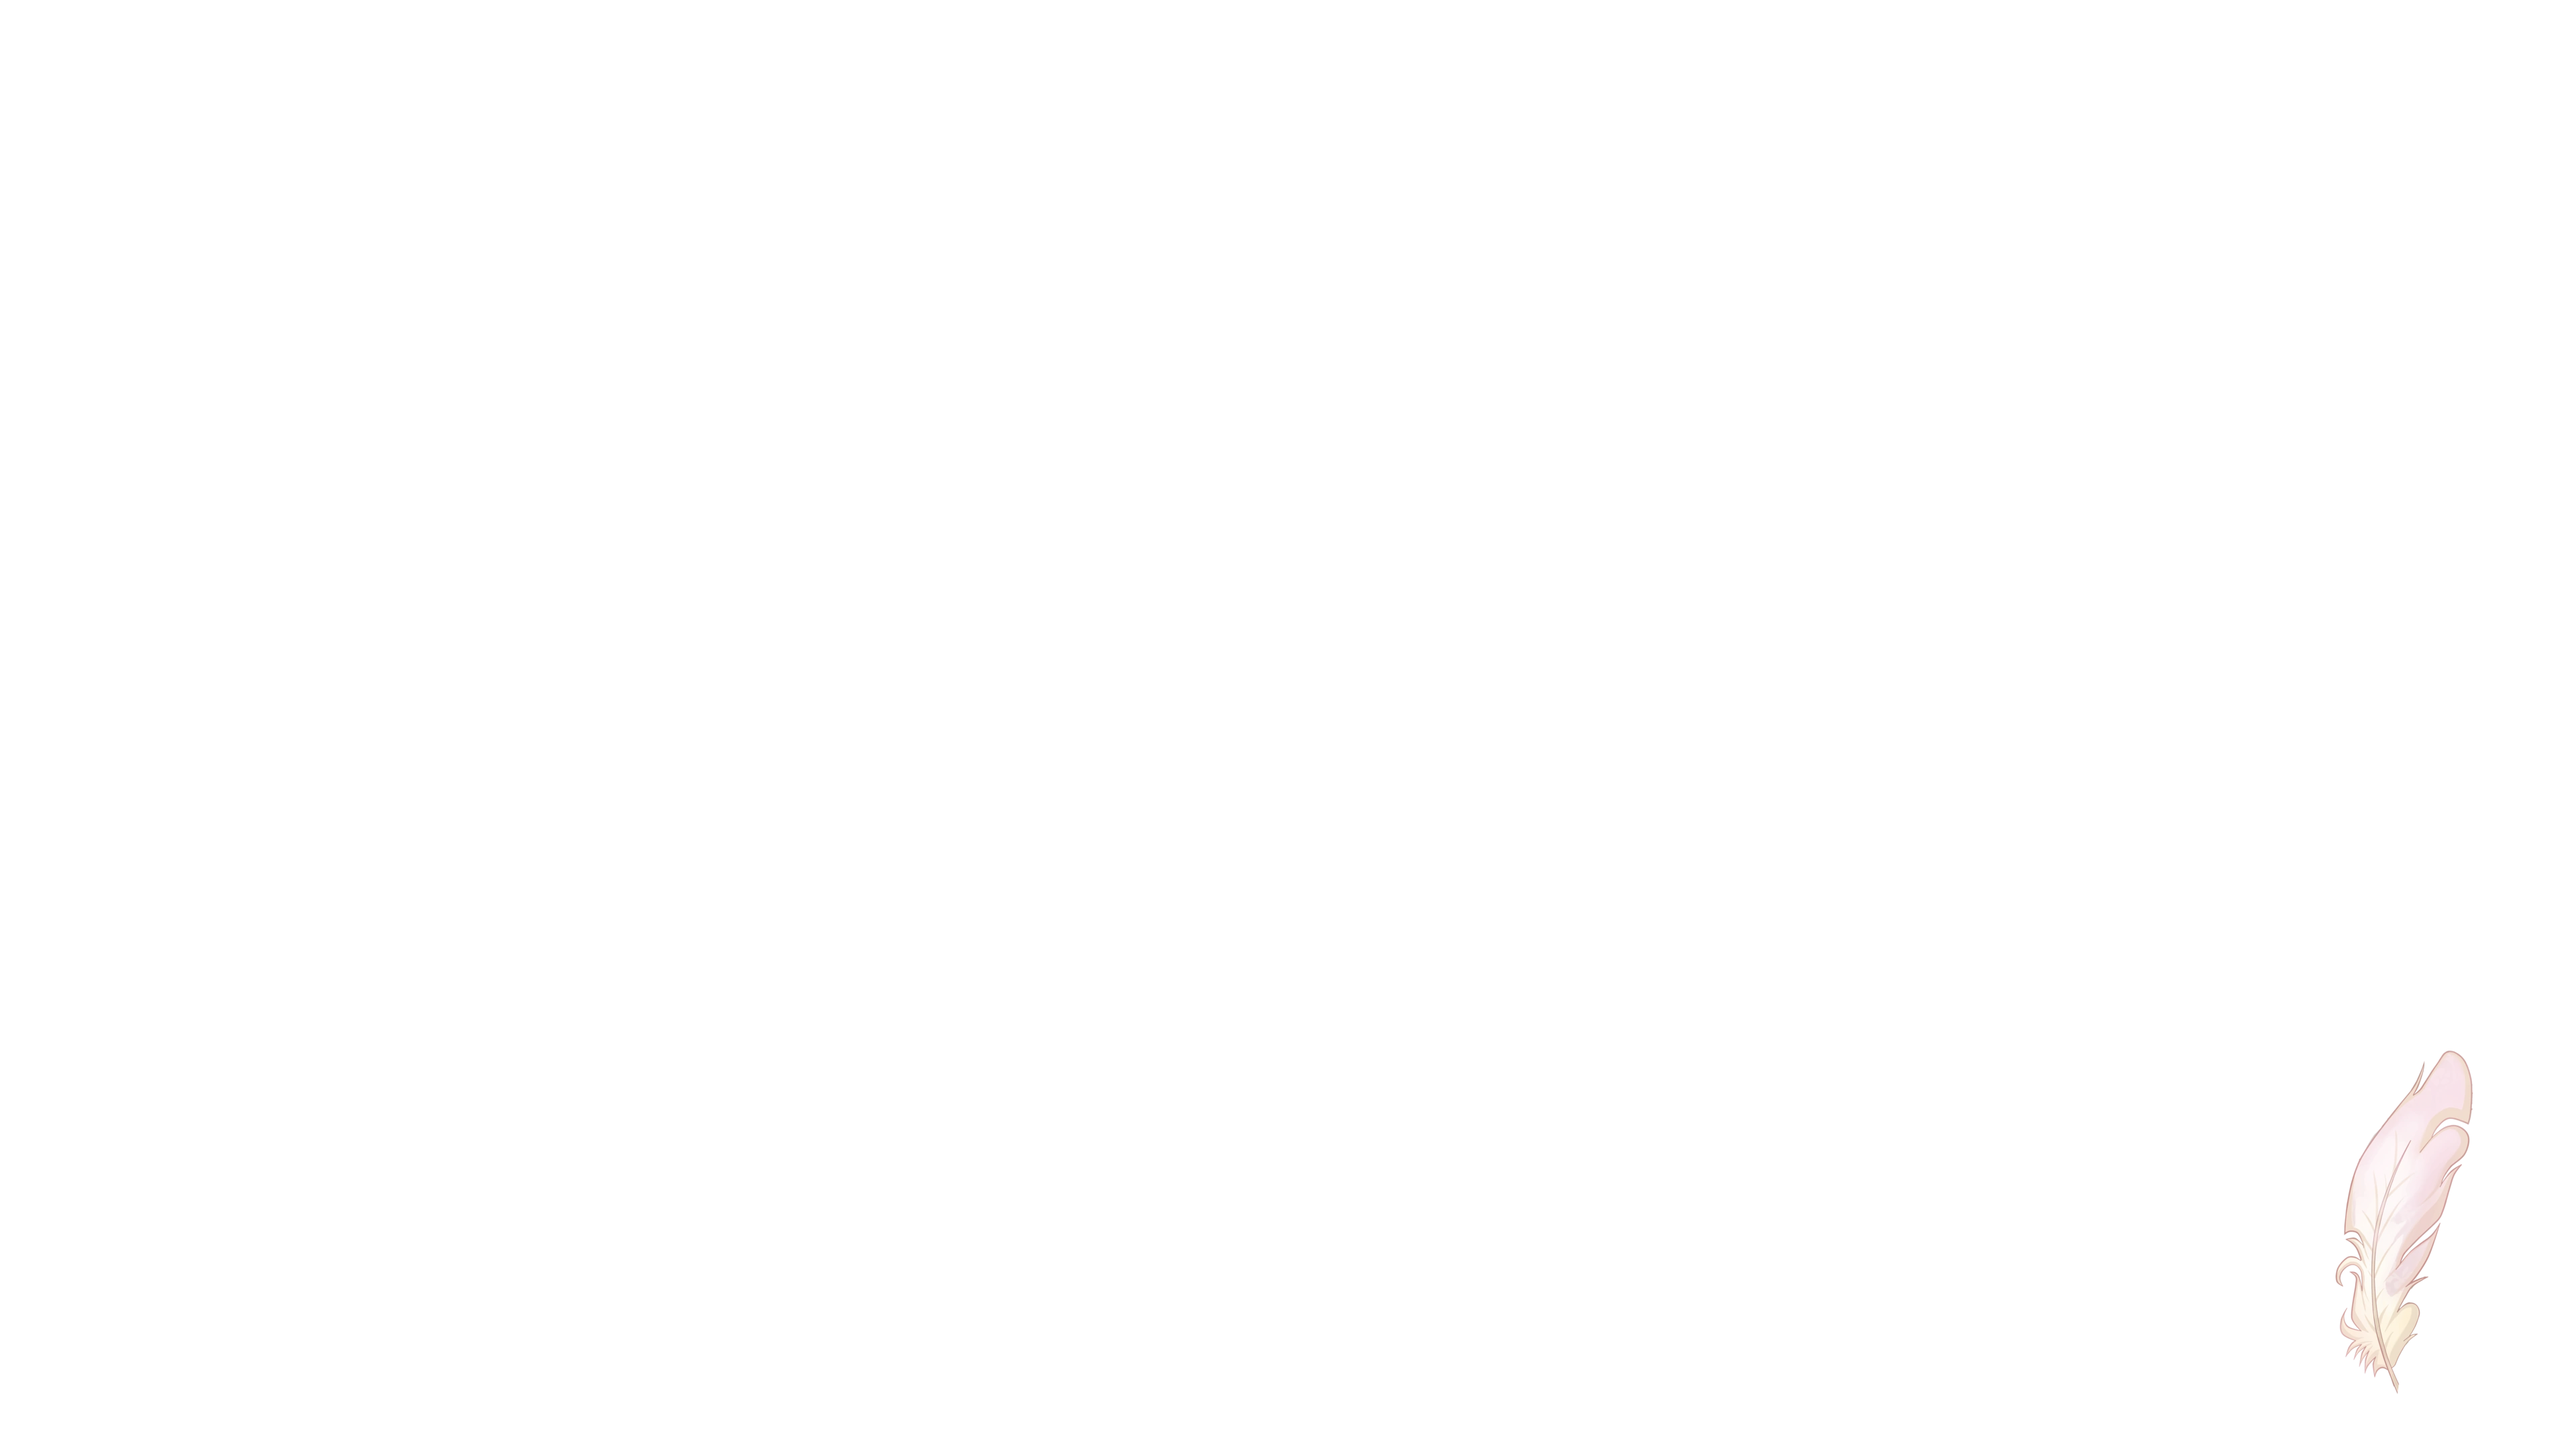
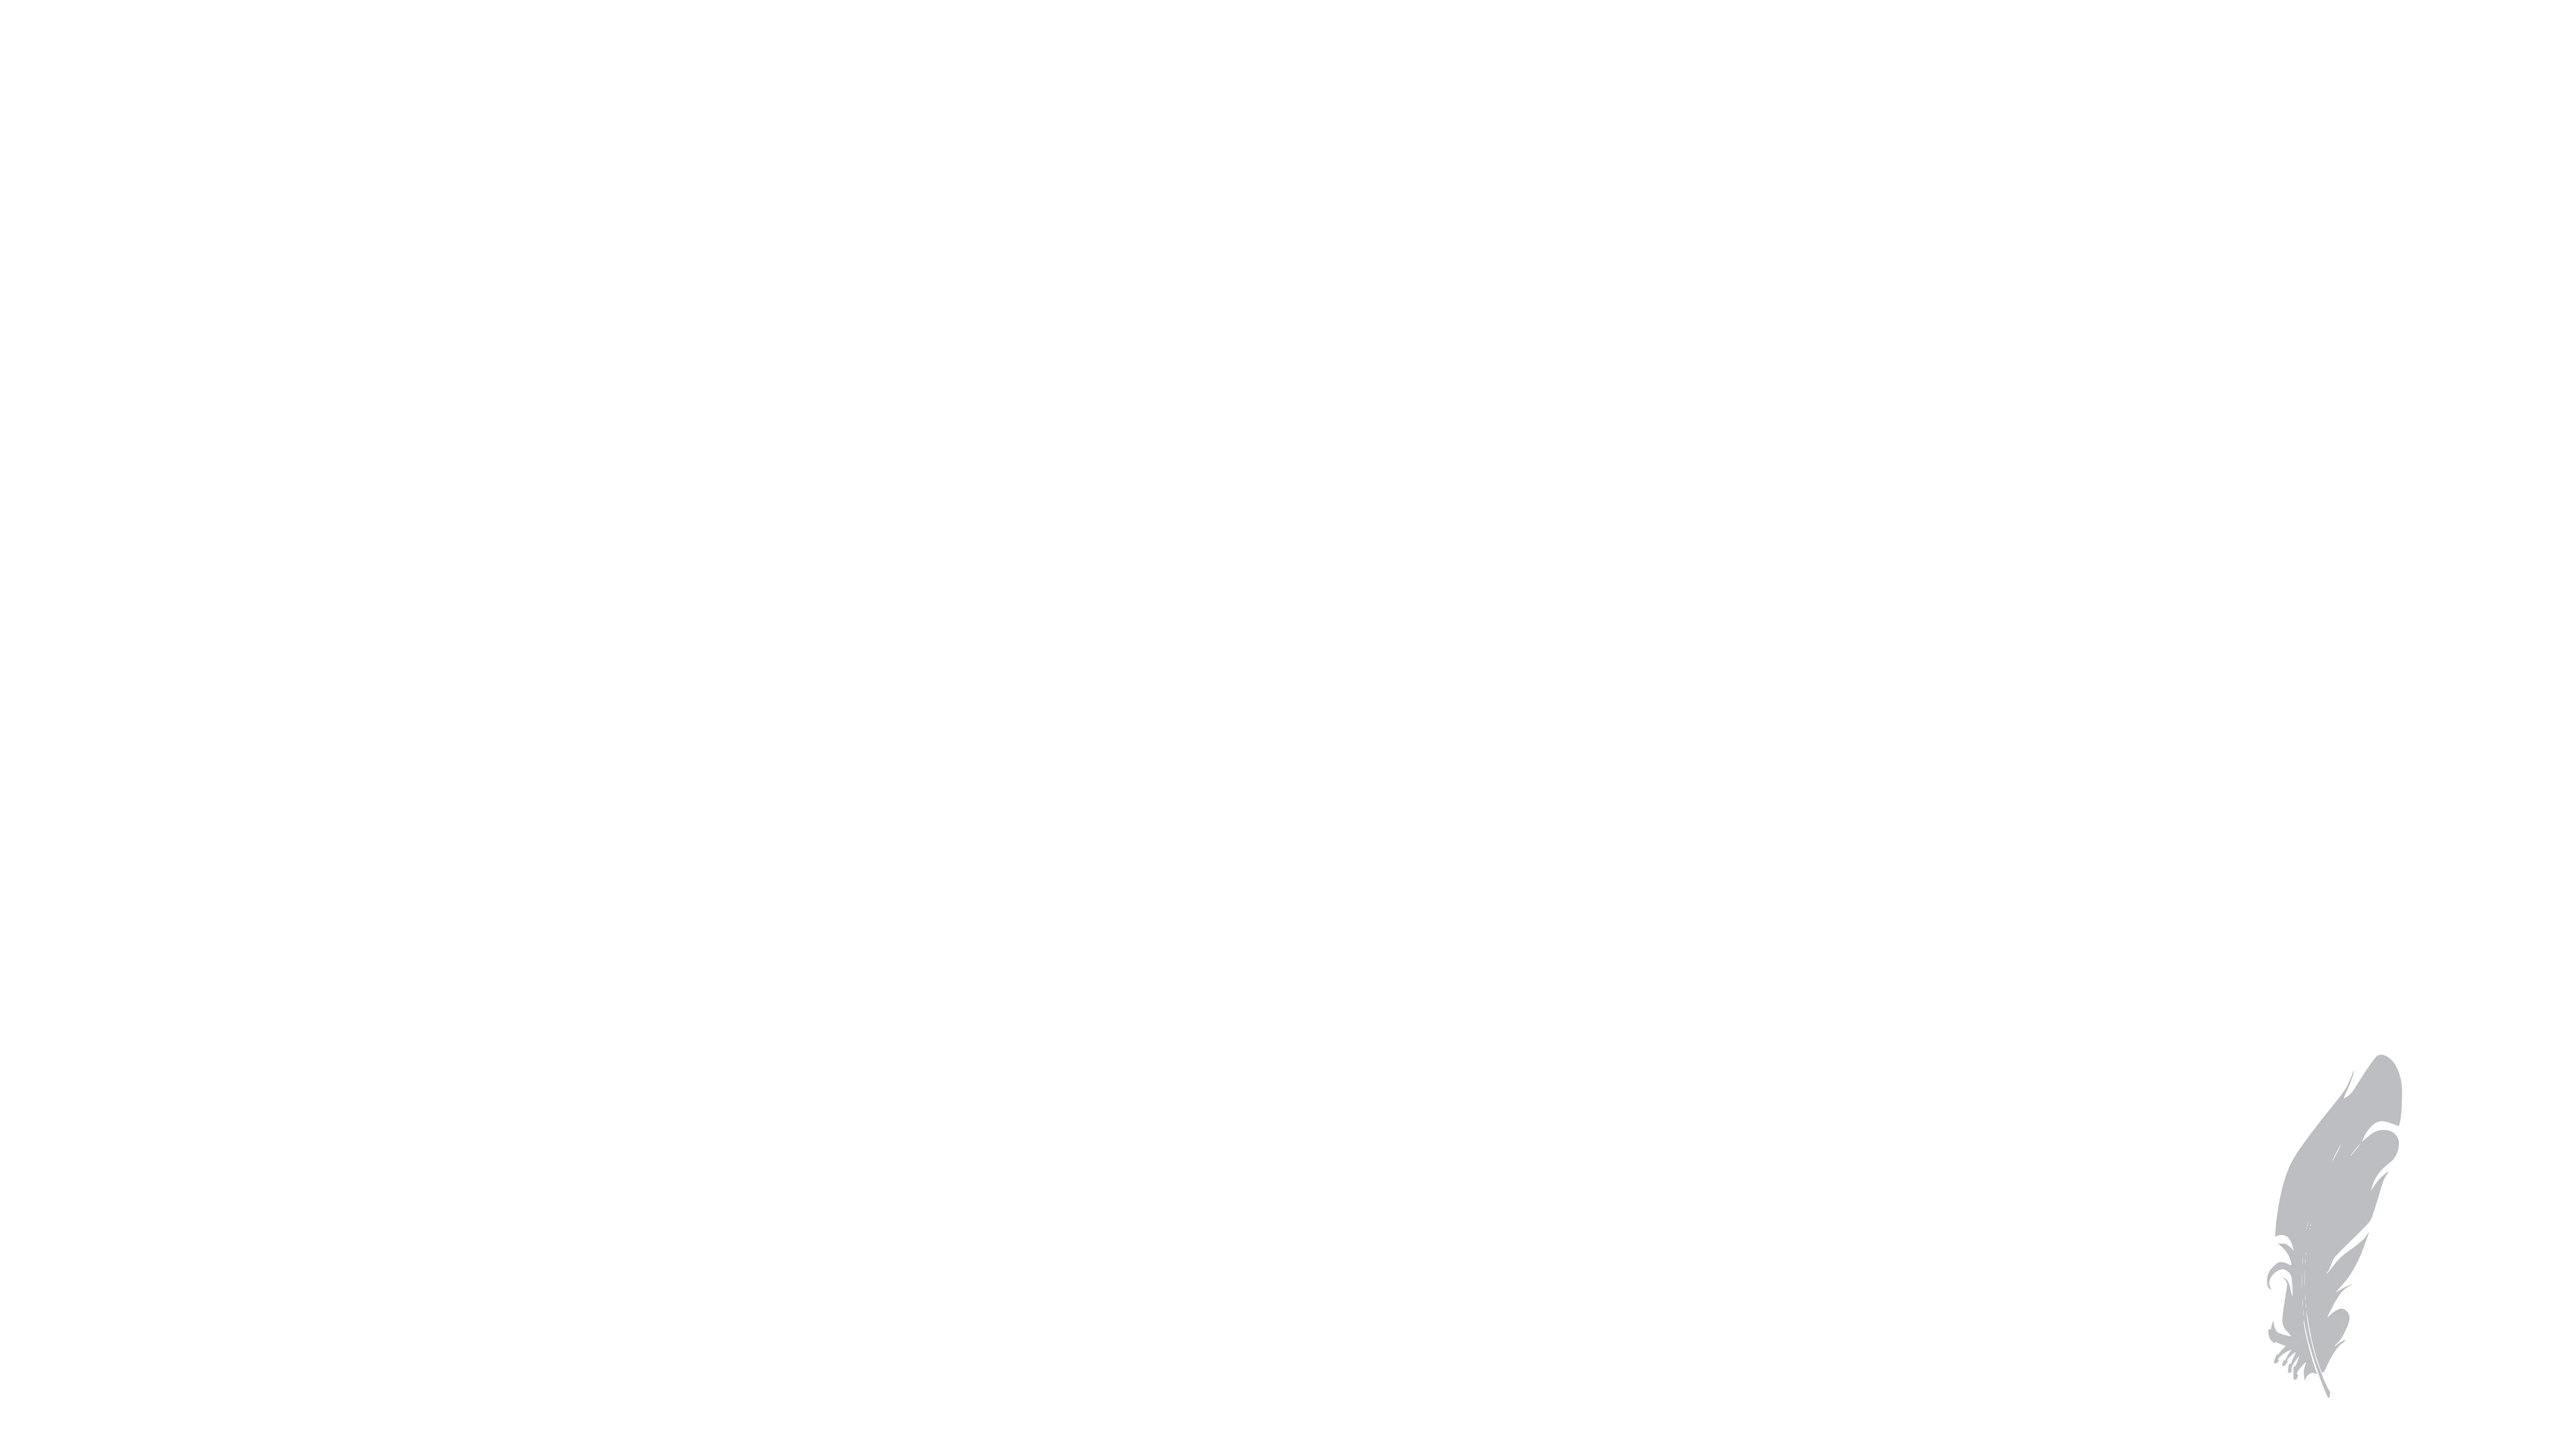
Update jinya releases to new theme

Changed region(s): [[0.875, 0.7134, 0.9688, 0.9616]]

diff --git a/static/jinya.css b/static/jinya.css
@@ -1,40 +1,42 @@
 [data-theme="light"],
 :root:not([data-theme="dark"]) {
-    --primary: #514b57;
-    --primary-hover: #38333c;
-    --primary-focus: rgba(81, 75, 87, 0.125);
+    --primary: #19324c;
+    --primary-hover: #14273C;
+    --primary-focus: rgba(20, 39, 60, 0.25);
     --primary-inverse: #FFF;
 
-    --secondary: #9d96a5;
-    --secondary-hover: #908899;
-    --secondary-focus: rgba(157, 150, 165, 0.25);
+    --secondary: #929292;
+    --secondary-hover: #7f7f7f;
+    --secondary-focus: rgba(127, 127, 127, 0.25);
     --secondary-inverse: #FFF;
 }
 
 @media only screen and (prefers-color-scheme: dark) {
     :root:not([data-theme]) {
-        --primary: #966554;
-        --primary-hover: #754f42;
-        --primary-focus: rgba(150, 101, 84, 0.25);
+        --primary: #0f1e2e;
+        --primary-hover: #0C1824;
+        --primary-focus: rgba(12, 24, 36, 0.25);
         --primary-inverse: #FFF;
 
-        --secondary: #9d96a5;
-        --secondary-hover: #908899;
-        --secondary-focus: rgba(157, 150, 165, 0.25);
+        --secondary: #929292;
+        --secondary-hover: #7f7f7f;
+        --secondary-focus: rgba(127, 127, 127, 0.25);
         --secondary-inverse: #FFF;
+
+        --card-background-color: #070d14;
     }
 }
 
 [data-theme="dark"] {
-    --primary: #966554;
-    --primary-hover: #754f42;
-    --primary-focus: rgba(150, 101, 84, 0.25);
+    --primary: #0f1e2e;
+    --primary-hover: #0C1824;
+    --primary-focus: rgba(12, 24, 36, 0.25);
     --primary-inverse: #FFF;
 
-    --secondary: #9d96a5;
-    --secondary-hover: #908899;
-    --secondary-focus: rgba(157, 150, 165, 0.25);
-    --secondary-inverse: #FFF;
+    --secondary: #929292;
+    --secondary-hover: #7f7f7f;
+    --secondary-focus: rgba(127, 127, 127, 0.25);
+    --secondary-inverse: #000;
 }
 
 html {
@@ -42,4 +44,14 @@ html {
     background-size: 100% 100%;
     background-attachment: fixed;
     height: 100vh;
+}
+
+@media screen and (prefers-color-scheme: dark) {
+    html {
+        background-image: url("background-dark.webp");
+    }
+
+    a {
+        color: #bbc6ce;
+    }
 }

diff --git a/templates/homepage.html b/templates/homepage.html
@@ -8,16 +8,15 @@
     <title>Jinya Releases</title>
     <link rel="stylesheet" type="text/css" href="/static/pico.css">
     <link rel="stylesheet" type="text/css" href="/static/jinya.css">
-    <link href="/static/apple-touch-icon.png" rel="apple-touch-icon" sizes="180x180">
-    <link href="/static/favicon-512x512.png" rel="icon" sizes="512x512" type="image/png">
-    <link href="/static/favicon-192x192.png" rel="icon" sizes="192x192" type="image/png">
-    <link href="/static/favicon-32x32.png" rel="icon" sizes="32x32" type="image/png">
-    <link href="/static/favicon-16x16.png" rel="icon" sizes="16x16" type="image/png">
-    <link href="/static/favicon.ico" rel="shortcut icon">
-    <meta content="Jinya CMS Releases" name="apple-mobile-web-app-title">
-    <meta content="Jinya CMS Releases" name="application-name">
-    <meta content="#514b57" name="msapplication-TileColor">
-    <meta content="#514b57" name="theme-color">
+    <link rel="icon" href="/static/favicon-light.png" type="image/png"/>
+    <link rel="icon" href="/static/favicon-dark.png" media="(prefers-color-scheme: dark)" type="image/png"/>
+    <link rel="icon" href="/static/favicon.svg" type="image/svg+xml"/>
+    <link rel="apple-touch-icon" sizes="180x180" href="/static/apple-touch-icon.png"/>
+    <link rel="mask-icon" href="/static/safari-pinned-tab.svg" color="#19324c"/>
+    <meta name="apple-mobile-web-app-title" content="Jinya CMS Releases"/>
+    <meta name="application-name" content="Jinya CMS Releases"/>
+    <meta name="msapplication-TileColor" content="#19324c"/>
+    <meta name="theme-color" content="#19324c"/>
 </head>
 <body>
 <main class="container">
